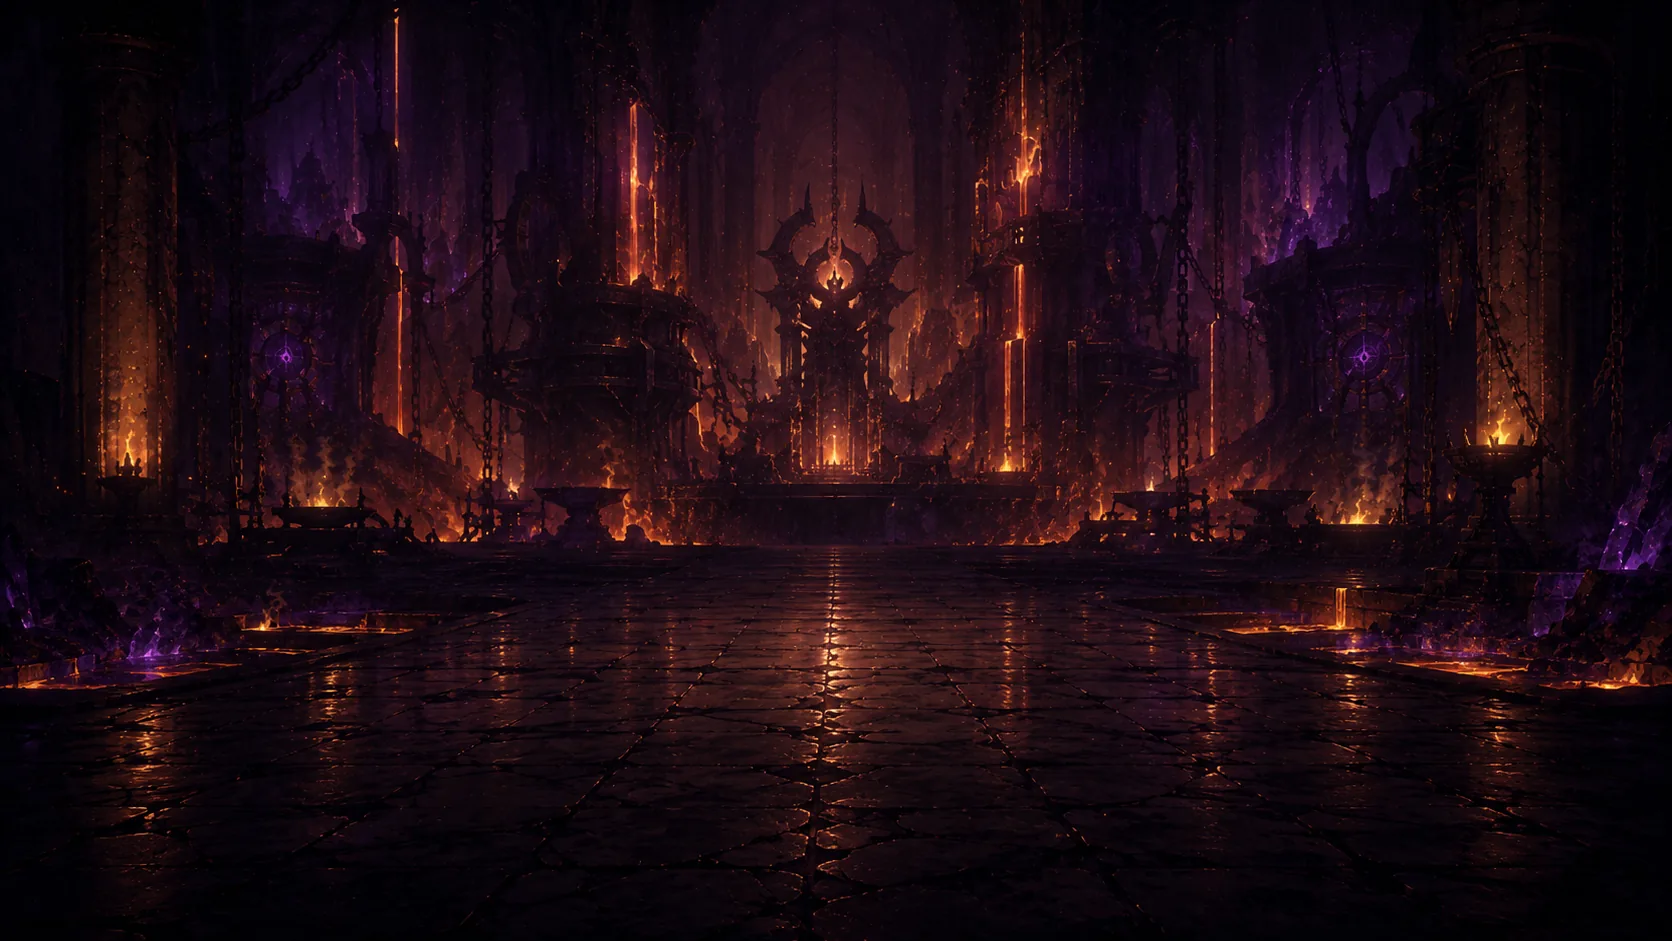
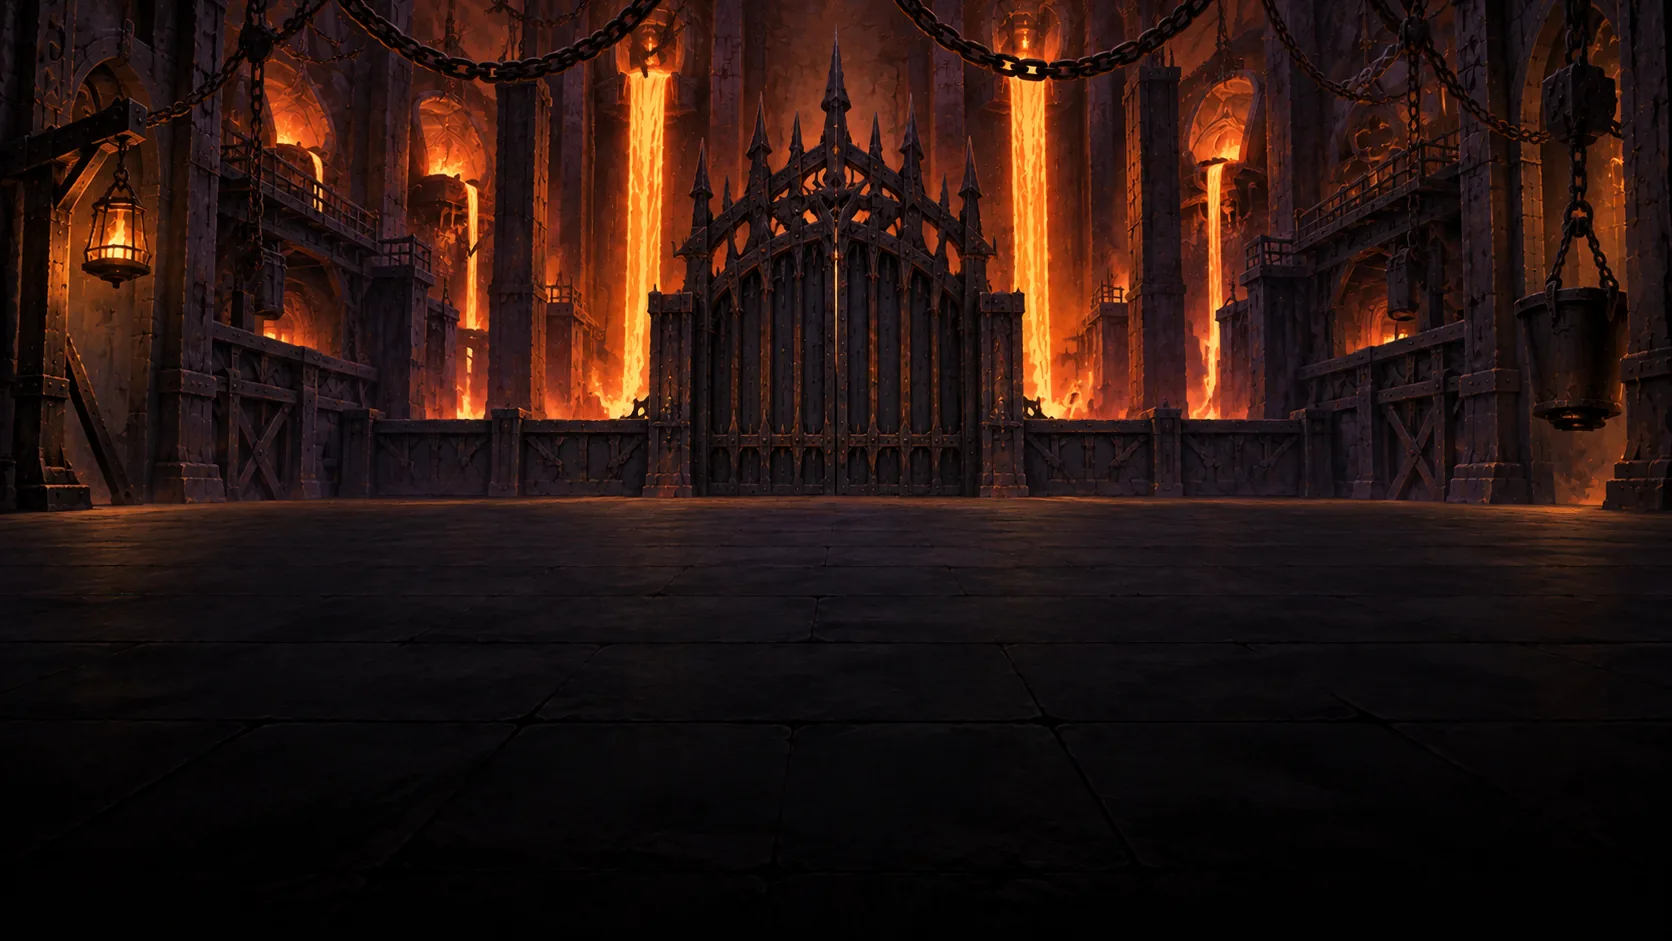
Act 1-toneel RONDE 3, deel 1 (v123): het doornaltaar en de gietzaal hergenereerd op de toneelstandaard (vloerrand 56%), GROND 65 -> 61; gemeten 0,0-0,1% op laptop, mobiel en 3D

diff --git a/js/art.js b/js/art.js
@@ -768,8 +768,8 @@ const GROND = {
   'Act 1 achtergronden/Gevechtstijl1act1.webp': { grond: 68 },                    /* tegelvloer begint pas op 68% */
   'Act 1 achtergronden/Gevechtsijl2act1.webp': { grond: 64 },                     /* helling 57-72%, tredelijn 64 */
   'Act 1 achtergronden/Gevechtstijl3act1.webp': { grond: 61, midden: 59 },
-  'Act 1 achtergronden/GevechtstijlEPISCHGEVECHTACT1.webp': { grond: 65 },         /* plint tot 67% aan de heldkant */
-  'Act 1 achtergronden/GevechtstijlEPISCHGEVECHT2ACT1.webp': { grond: 65, midden: 59 },
+  'Act 1 achtergronden/GevechtstijlEPISCHGEVECHTACT1.webp': { grond: 61 },         /* v123: hergenereerd op de toneelstandaard (RONDE 3) */
+  'Act 1 achtergronden/GevechtstijlEPISCHGEVECHT2ACT1.webp': { grond: 61 },        /* v123: hergenereerd op de toneelstandaard (RONDE 3) */
   /* --- Act 2 — Het Archief --- */
   'Act 2 achtergronden/Gevechtstijl1act2.webp': { grond: 61 },                     /* v116: hergenereerd op de toneelstandaard (vloerrand 56%) */
   'Act 2 achtergronden/Gevechtstijl2act2.webp': { grond: 68, midden: 57 },

diff --git a/sw.js b/sw.js
@@ -2,7 +2,7 @@
    Code (html/js/css): network-first — online krijg je altijd de nieuwste versie.
    Art (assets/): cache-first — afbeeldingen veranderen niet, dus herbezoeken
    laden vrijwel instant. Offline werkt alles vanuit de cache. */
-const CACHE = 'slayit-v122'; // v122: het DEV-menu herbouwd - een declaratieve tabel met de drama-overgangen van HET PROCES, Drops-boog als losse knoppen, schakelaars, en toegang op mobiel via het versielabel
+const CACHE = 'slayit-v123'; // v123: twee Act 1-gevechtsplaten (doornaltaar, gietzaal) hergenereerd op de toneelstandaard (RONDE 3, vloerrand 56%)
 const BESTANDEN = [
   '.',
   'css/style.css',
